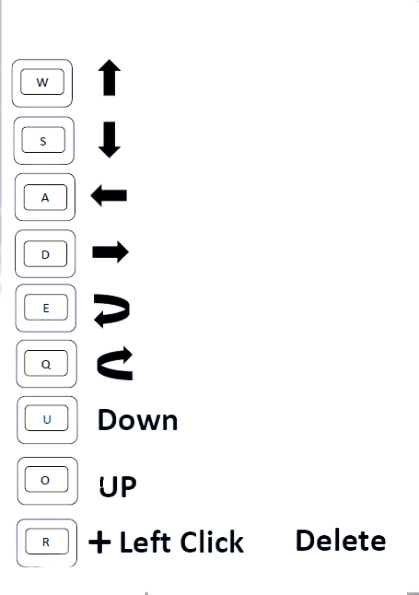
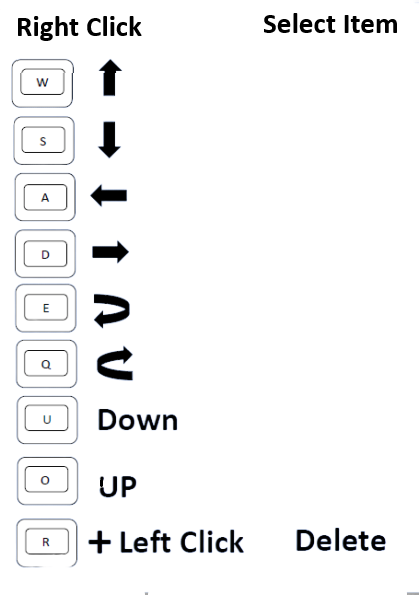
Added Select Item in User-Control-Info Changed Drop Down Menu

diff --git a/service_server/roomplaner/main/main.css b/service_server/roomplaner/main/main.css
@@ -82,6 +82,25 @@ input[type=text]{
 	box-sizing: border-box;
 }
 
+#items-dropdown{
+	position: relative;
+	width: 15%;
+	font-size: 10pt;
+	padding: 2.5px;
+	border: none;
+	background-color: rgba(100, 89, 89, 0.432);
+	cursor: pointer;
+}
+
+#placed{
+	width: 15%;
+	font-size: 10pt;
+	padding: 2.5px;
+	border: none;
+	background-color: rgba(100, 89, 89, 0.432);
+	cursor: pointer;
+}
+
 #Tasten{
 	
 	width: 250px;
